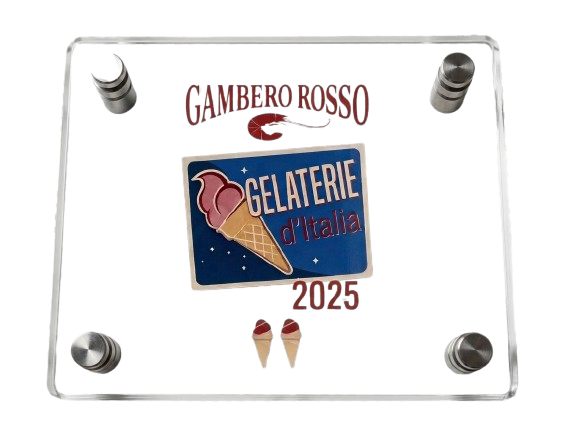
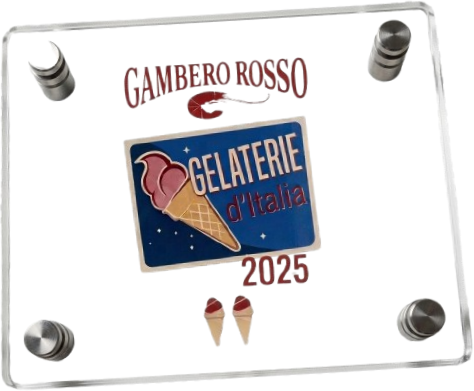
Raddrizza la targa 2025 e corregge gli angoli della tabella orari
- gambero-rosso-2025.png era fotografato leggermente storto (~3.3 gradi),
  dando l'impressione di disallineamento rispetto al badge 2027,
  perfettamente dritto. Ruotata e ricentrata.
- .orari-tabella: aggiunto border-radius alla tabella stessa (senza
  overflow:hidden, che taglierebbe di nuovo la didascalia). Senza,
  l'ombra della tabella restava un rettangolo netto dietro alle celle
  d'angolo arrotondate, leggibile su schermo come "angoli squadrati"
  nonostante gli sfondi delle celle fossero gia' curvi.

Changed region(s): [[0.0, 0.0, 1.0, 1.0]]

diff --git a/css/main.css b/css/main.css
@@ -2278,10 +2278,14 @@ body.menu-aperto .nav__toggle-linea {
   border-collapse: separate;
   border-spacing: 0;
   background: var(--avorio);
+  border-radius: var(--radius-lg);
   box-shadow: var(--shadow-md);
   /* niente overflow:hidden qui: taglierebbe anche <caption>, che è dentro
-     la tabella — gli angoli arrotondati si applicano invece alle singole
-     celle d'angolo qui sotto */
+     la tabella — il border-radius da solo (senza overflow) non taglia
+     nulla, ma basta perché anche l'ombra segua l'angolo arrotondato invece
+     di restare un rettangolo netto dietro alle celle arrotondate. Gli
+     angoli delle singole celle sotto restano comunque necessari perché lo
+     sfondo delle celle stesse segua la stessa curva. */
 }
 
 .orari-tabella thead tr:first-child th:first-child { border-top-left-radius: var(--radius-lg); }

diff --git a/index.html b/index.html
@@ -267,7 +267,7 @@
 
       <div class="riconoscimenti__loghi" data-reveal>
         <figure class="riconoscimenti__badge">
-          <img src="assets/img/riconoscimenti/gambero-rosso-2025.png" alt="Due Coni, Gelaterie d'Italia 2025 — Gambero Rosso" width="563" height="443" loading="lazy">
+          <img src="assets/img/riconoscimenti/gambero-rosso-2025.png" alt="Due Coni, Gelaterie d'Italia 2025 — Gambero Rosso" width="474" height="391" loading="lazy">
         </figure>
         <figure class="riconoscimenti__badge riconoscimenti__badge--grande">
           <img src="assets/img/riconoscimenti/gambero-rosso-2027.png" alt="Due Coni, Gelaterie d'Italia 2027 — Gambero Rosso" width="563" height="443" loading="lazy">
